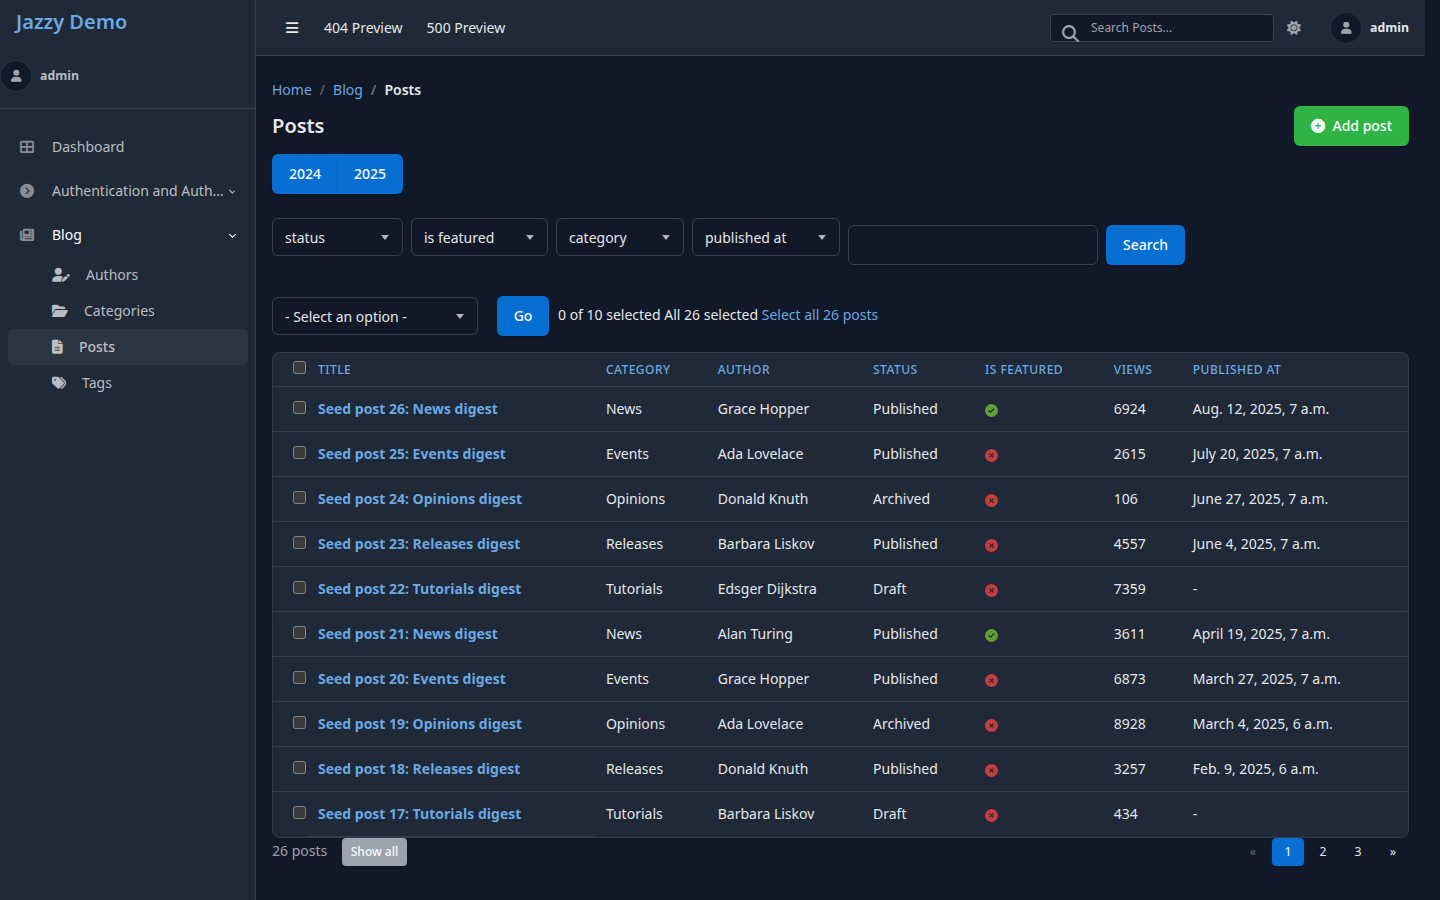
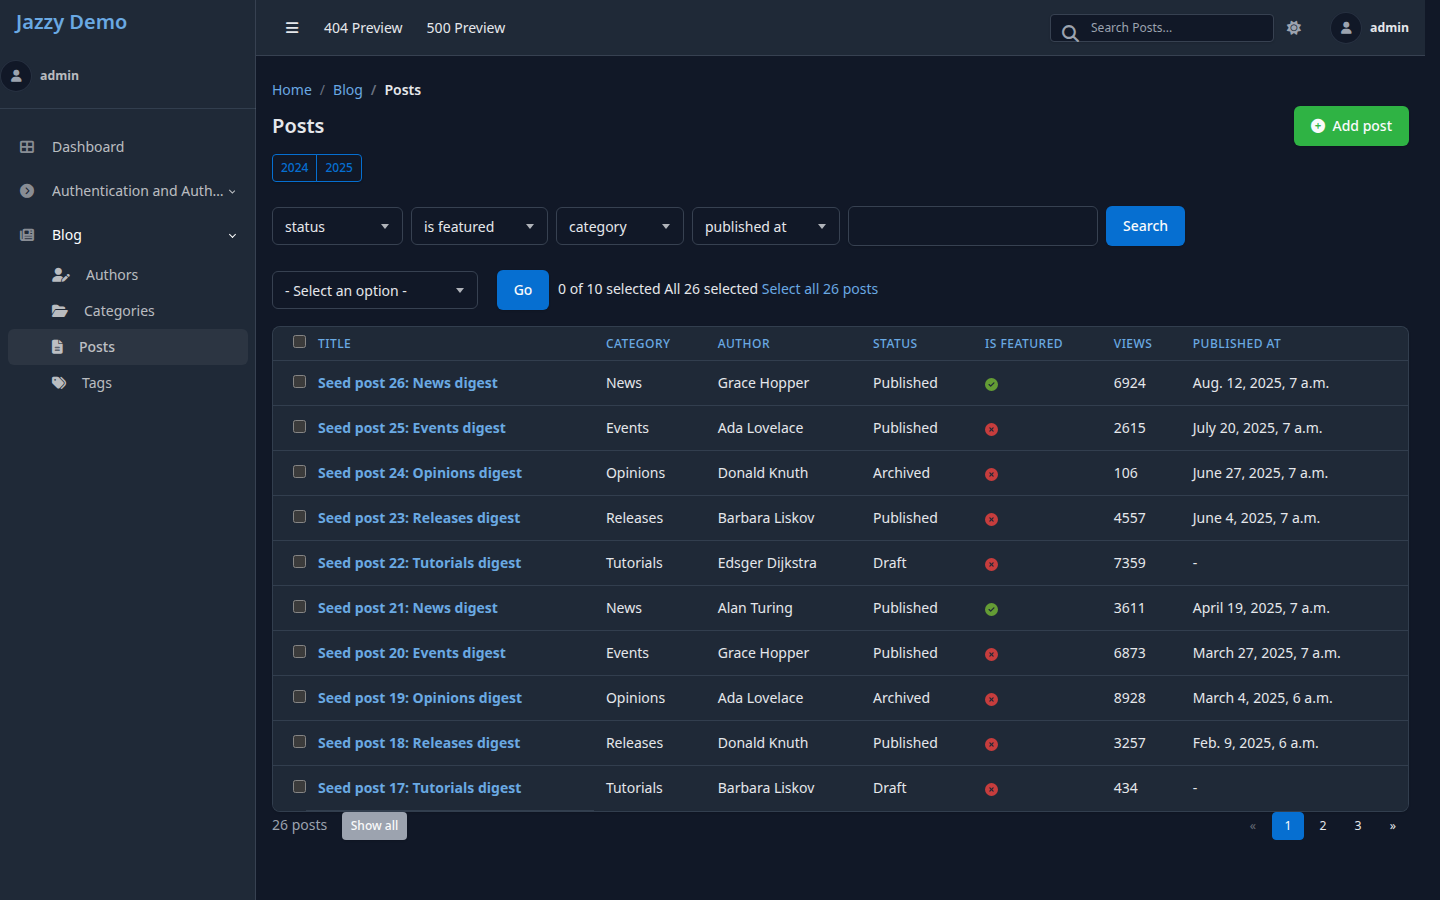
Review round 3: changelist search alignment, date hierarchy, password field, stacked-inline captures
- changelist: .form-group bottom margin zeroed inside #change-list-filters —
  filter select2s, search input and Search button now share one center line
  (asserted by computed bounding boxes)
- date hierarchy: segmented btn-group-sm with outline buttons, filled active
  choice, back AND forward links (forward was missing), aria-current
- password field: a.button styled as an outline-primary action (Django's
  widgets.css isn't loaded), hash summary muted + wraps (overflow-wrap),
  Django >= 5 .form-hint help text styled
- stacked change-form variants are captured full-page so the stacked inline
  (comments) is actually visible in the matrix
- new computed-style tests for all of the above; CHANGELOG updated

diff --git a/jazzy_tabler/static/jazzy_tabler/css/main.css b/jazzy_tabler/static/jazzy_tabler/css/main.css
@@ -407,6 +407,12 @@ select:not(.form-select):not([multiple]):focus {
     margin-bottom: 1rem;
 }
 
+/* Changelist filter row: form-groups live inside a centered flex row —
+   the bottom margin would push them off-center. */
+#change-list-filters .form-group {
+    margin-bottom: 0;
+}
+
 .inline-related .form-row,
 .inline-related .form-group {
     padding: 0.5rem;
@@ -651,9 +657,11 @@ select:not(.form-select):not([multiple]):focus {
 
 /* ============================================================================
    HELP TEXT AND ERRORS
+   (.helptext is the pre-5.0 class, .form-hint is Django >= 5)
    ========================================================================== */
 .help-block,
-.helptext {
+.helptext,
+.form-hint {
     font-size: 0.8125rem;
     color: var(--tblr-secondary-color);
     margin-top: 0.25rem;
@@ -676,6 +684,48 @@ select:not(.form-select):not([multiple]):focus {
     border: var(--tblr-border-width) solid var(--tblr-border-color);
     border-radius: var(--tblr-border-radius);
     color: var(--tblr-secondary-color);
+}
+
+/* ============================================================================
+   READONLY PASSWORD HASH (user change form)
+   Django's widgets.css (not loaded here) styles class="button"; the hash
+   summary is long unbroken text that must not overflow its column.
+   ========================================================================== */
+a.button,
+a.button:visited {
+    display: inline-flex;
+    align-items: center;
+    padding: .375rem .75rem;
+    font-size: var(--tblr-body-font-size, 0.875rem);
+    line-height: 1.5;
+    color: var(--tblr-primary);
+    background: transparent;
+    border: var(--tblr-border-width) solid var(--tblr-primary);
+    border-radius: var(--tblr-border-radius);
+    transition: color .15s ease-in-out, background-color .15s ease-in-out;
+}
+
+a.button:hover {
+    color: #fff;
+    background: var(--tblr-primary);
+}
+
+.field-password div[disabled] p:first-child {
+    font-size: 0.8125rem;
+    color: var(--tblr-secondary-color);
+    margin-bottom: 0.5rem;
+    overflow-wrap: anywhere;
+}
+
+.field-password div[disabled] p:first-child strong {
+    font-weight: 600;
+}
+
+/* ============================================================================
+   DATE HIERARCHY (changelist drill-down)
+   ========================================================================== */
+.date-hierarchy {
+    font-size: 0.875rem;
 }
 
 /* ============================================================================

diff --git a/jazzy_tabler/templates/admin/date_hierarchy.html b/jazzy_tabler/templates/admin/date_hierarchy.html
@@ -1,22 +1,29 @@
-{% load jazzy_tabler %}
+{% load i18n jazzy_tabler %}
 {% get_jazzy_ui_tweaks as jazzy_ui %}
 
 {% if show %}
 <div class="col-12 pb-4" id="change-list-date-hierarchy">
-    <div class="btn-group date-hierarchy text-sm">
+    <div class="btn-group btn-group-sm date-hierarchy" role="group" aria-label="{% trans 'Date hierarchy' %}">
         {% block date-hierarchy-toplinks %}
             {% block date-hierarchy-back %}
                 {% if back %}
-                    <a class="btn {{ jazzy_ui.button_classes.secondary }}" href="{{ back.link }}">&lsaquo; {{ back.title }}</a>
+                    <a class="btn btn-outline-secondary" href="{{ back.link }}">&lsaquo;&nbsp;{{ back.title }}</a>
                 {% endif %}
             {% endblock %}
-            {% block date-hierarchy-choices %}
-                {% for choice in choices %}
-                    <a {% if choice.link %}href="{{ choice.link }}" class="btn {{ jazzy_ui.button_classes.primary }}"{% else %}class="btn {{ jazzy_ui.button_classes.primary }} active"{% endif %}>
-                        {{ choice.title }}
-                    </a>
-                {% endfor %}
+            {% block date-hierarchy-forward %}
+                {% if forward %}
+                    <a class="btn btn-outline-secondary" href="{{ forward.link }}">{{ forward.title }}&nbsp;&rsaquo;</a>
+                {% endif %}
             {% endblock %}
+        {% endblock %}
+        {% block date-hierarchy-choices %}
+            {% for choice in choices %}
+                <a {% if choice.link %}href="{{ choice.link }}"{% endif %}
+                   class="btn btn-outline-primary{% if not choice.link %} active{% endif %}"
+                   {% if not choice.link %}aria-current="true"{% endif %}>
+                    {{ choice.title }}
+                </a>
+            {% endfor %}
         {% endblock %}
     </div>
 </div>

diff --git a/tests/test_theme_layout.py b/tests/test_theme_layout.py
@@ -125,3 +125,45 @@ def test_submit_buttons_match_theme_button_family(page, demo_server):
 
     assert abs(save_h - add_h) < 2, f"save {save_h}px vs add {add_h}px"
     assert save_fs == add_fs, f"save font {save_fs} vs add font {add_fs}"
+
+
+def test_changelist_search_row_items_aligned(page, demo_server):
+    """Filter select2s, search input and Search button share one vertical center line."""
+    page.goto(f"{demo_server.base_url}/admin/blog/post/", wait_until="networkidle")
+
+    items = {
+        "filter": page.locator("#changelist-search .form-group .select2-container").first,
+        "input": page.locator("#changelist-search #searchbar"),
+        "button": page.locator("#changelist-search button[type=submit]"),
+    }
+    centers = {}
+    for name, locator in items.items():
+        box = locator.bounding_box()
+        assert box, f"{name} missing from search row"
+        centers[name] = box["y"] + box["height"] / 2
+
+    spread = max(centers.values()) - min(centers.values())
+    assert spread <= 2, f"search row items off-center: {centers}"
+
+
+def test_date_hierarchy_is_a_segmented_control(page, demo_server):
+    page.goto(f"{demo_server.base_url}/admin/blog/post/", wait_until="networkidle")
+    group = page.locator("#change-list-date-hierarchy .btn-group")
+    assert group.is_visible()
+    buttons = page.locator("#change-list-date-hierarchy .btn-group .btn")
+    assert buttons.count() >= 2, "expected year choices"
+    h = buttons.first.bounding_box()["height"]
+    assert h < 36, f"date hierarchy buttons should be small, got {h}px"
+
+    # drill to day level: the current choice is filled with the primary color
+    page.goto(
+        f"{demo_server.base_url}/admin/blog/post/?published_at__year=2024&published_at__month=1&published_at__day=15",
+        wait_until="networkidle",
+    )
+    active = page.locator("#change-list-date-hierarchy .btn.active")
+    assert active.count() == 1
+    back = page.locator("#change-list-date-hierarchy .btn-outline-secondary")
+    assert back.count() == 1, "expected a back link when drilled in"
+    bg = active.first.evaluate("el => getComputedStyle(el).backgroundColor")
+    channels = [round(float(c)) for c in bg[bg.index("(") + 1 : bg.rindex(")")].split(",")[:3]]
+    assert not all(c > 200 for c in channels), f"active date choice not filled: {bg}"

diff --git a/tests/test_screenshots.py b/tests/test_screenshots.py
@@ -113,9 +113,9 @@ class ConsoleTap:
             self.record["console_errors"].append(f"pageerror: {exc}")
 
 
-def _shot(page, out_dir: Path, slug: str) -> dict:
+def _shot(page, out_dir: Path, slug: str, full_page: bool = False) -> dict:
     path = out_dir / f"{slug}.png"
-    page.screenshot(path=str(path))
+    page.screenshot(path=str(path), full_page=full_page)
     return {"file": str(path), "bytes": path.stat().st_size}
 
 
@@ -130,7 +130,7 @@ def _run_action(page, action: str):
         raise ValueError(f"unknown action {action}")
 
 
-def _capture(page, tap, base_url, slug, url, name, expected_status, out_dir, manifest, mode):
+def _capture(page, tap, base_url, slug, url, name, expected_status, out_dir, manifest, mode, full_page=False):
     record = {"mode": mode, "slug": slug, "url": url, "name": name, "console_errors": []}
     tap.record = record
     response = page.goto(f"{base_url}{url}", wait_until="networkidle")
@@ -138,7 +138,7 @@ def _capture(page, tap, base_url, slug, url, name, expected_status, out_dir, man
     record["status"] = status
     assert status == expected_status, f"[{mode}] {slug}: {url} -> {status} (expected {expected_status})"
     assert page.evaluate("document.documentElement.getAttribute('data-bs-theme')") == mode
-    record.update(_shot(page, out_dir, slug))
+    record.update(_shot(page, out_dir, slug, full_page=full_page))
     assert record["bytes"] > 10_000, f"[{mode}] {slug}: suspiciously small screenshot"
     manifest.append(record)
     tap.record = None
@@ -350,7 +350,8 @@ def test_screenshot_matrix(demo_server, stacked_server, browser):
     change_url = next(p["url"] for p in stacked_server.inventory if p["slug"] == "blog-post-change")
     for url, slug, name in STACKED_PAGES:
         url = url or change_url
-        _capture(page, tap, stacked_server.base_url, slug, url, name, 200, out_dir, manifest, "light")
+        # full page: the point of the stacked variant is seeing fieldsets AND inlines
+        _capture(page, tap, stacked_server.base_url, slug, url, name, 200, out_dir, manifest, "light", full_page=True)
     context.close()
 
     # ---- dark: main pages only ----------------------------------------------

diff --git a/tests/test_widget_layout.py b/tests/test_widget_layout.py
@@ -253,3 +253,19 @@ def test_selector_chooser_buttons(page, demo_server):
     assert chooseall.is_visible()
     ca_h = chooseall.bounding_box()["height"]
     assert ca_h < 28, f"choose-all should be a small action, got {ca_h}px tall"
+
+
+def test_password_readonly_field_is_styled(page, demo_server):
+    """User change form: the Reset password action looks like a button and the
+    hash summary cannot overflow its column (Django's widgets.css is not loaded)."""
+    page.goto(f"{demo_server.base_url}/admin/auth/user/1/change/", wait_until="networkidle")
+
+    reset = page.locator(".field-password a.button")
+    assert reset.count() == 1
+    radius = reset.evaluate("el => getComputedStyle(el).borderTopLeftRadius")
+    assert float(radius.replace("px", "")) > 0, "reset link not button-styled"
+    display = reset.evaluate("el => getComputedStyle(el).display")
+    assert "inline" in display, display
+
+    summary = page.locator(".field-password div[disabled] p").first
+    assert summary.evaluate("el => el.scrollWidth <= el.clientWidth + 1"), "hash summary overflows"

diff --git a/AGENTS.md b/AGENTS.md
@@ -14,7 +14,7 @@ When updating this file, preserve this bar for all agents and keep entries conci
 ## Testing
 
 - Fast suite (no browser): `uv sync && uv run pytest` — includes the admin URL-coverage suite (`tests/test_admin_urls.py`) driven by `demo/admin_inventory.py`, which derives every admin URL from the registered admin site. Extend the demo models/admins and the coverage follows automatically.
-- Browser pass (opt-in, Playwright): `uv sync --group screenshots && uv run playwright install chromium` once, then `JAZZY_SCREENSHOTS=1 uv run pytest`. It boots the seeded demo via `manage.py runserver` against a throwaway sqlite (`DEMO_DATABASE` env) and captures the matrix into `proofs/<run>/` (name via `JAZZY_PROOFS_RUN`): light = full inventory (filter variants excluded — covered by the URL suite) + interaction shots + a stacked change-form variant (second server booted with `DEMO_CHANGEFORM_FORMAT=single`); dark = main pages only (index, changelist, change form). `proofs/<run>/index.html` is a 4-column inline-image review grid; browser console errors fail the run. Computed-style layout guards live in `tests/test_theme_layout.py` and `tests/test_widget_layout.py`.
+- Browser pass (opt-in, Playwright): `uv sync --group screenshots && uv run playwright install chromium` once, then `JAZZY_SCREENSHOTS=1 uv run pytest`. It boots the seeded demo via `manage.py runserver` against a throwaway sqlite (`DEMO_DATABASE` env) and captures the matrix into `proofs/<run>/` (name via `JAZZY_PROOFS_RUN`): light = full inventory (filter variants excluded — covered by the URL suite) + interaction shots + a stacked change-form variant (second server booted with `DEMO_CHANGEFORM_FORMAT=single`); dark = main pages only (index, changelist, change form). `proofs/<run>/index.html` is a grouped, deduplicated 4-column review grid with a lightbox gallery (groups keyed off the page slug; `_notable()` in `tests/test_screenshots.py` drops duplicate-perspective pages); browser console errors fail the run. Computed-style layout guards live in `tests/test_theme_layout.py` and `tests/test_widget_layout.py`.
 - Never read/open screenshot PNGs into agent context; verify via file size + DOM assertions.
 - Demo data: `uv run python manage.py migrate --run-syncdb && uv run python manage.py seed_demo --with-superuser` (admin / `$DEMO_ADMIN_PASSWORD`, default `admin`). `demo/seed.py` is shared by tests and the demo server.
 

diff --git a/CHANGELOG.md b/CHANGELOG.md
@@ -28,6 +28,22 @@ The format follows [Keep a Changelog](https://keepachangelog.com/en/1.1.0/).
 - Login form was missing the hidden `next` field — logging in from
   `/admin/login/` landed on `/accounts/profile/` (404) instead of the
   dashboard.
+- 404/500 templates rendered with the full admin chrome (sidebar/navbar) and
+  a non-vendored icon class; they are now standalone pages with only
+  “Go back” and “Main page” actions (and must stay dependency-light).
+- `filter_horizontal`/`filter_vertical` chooser buttons rendered as raw text
+  buttons: Django ≥ 5 builds the widget in JS with `<button>` elements and
+  `div` title bars, and Django's `widgets.css` is not loaded by the themed
+  change form. The selector CSS now covers both markups (icon-box buttons,
+  themed title bars, quiet choose-all/clear-all actions).
+- Changelist filter row: `.form-group` bottom margins pushed the select2
+  filters off the shared center line of the search input/button.
+- Date hierarchy restyled as a compact segmented control (outline buttons,
+  filled active choice, back/forward links).
+- User password field: the “Reset password” action is button-styled
+  (`a.button` from Django's unloaded widgets.css), the hash summary is muted
+  and wraps instead of overflowing, and Django ≥ 5 `.form-hint` help text is
+  styled like the old `.helptext`.
 
 ### Added
 
